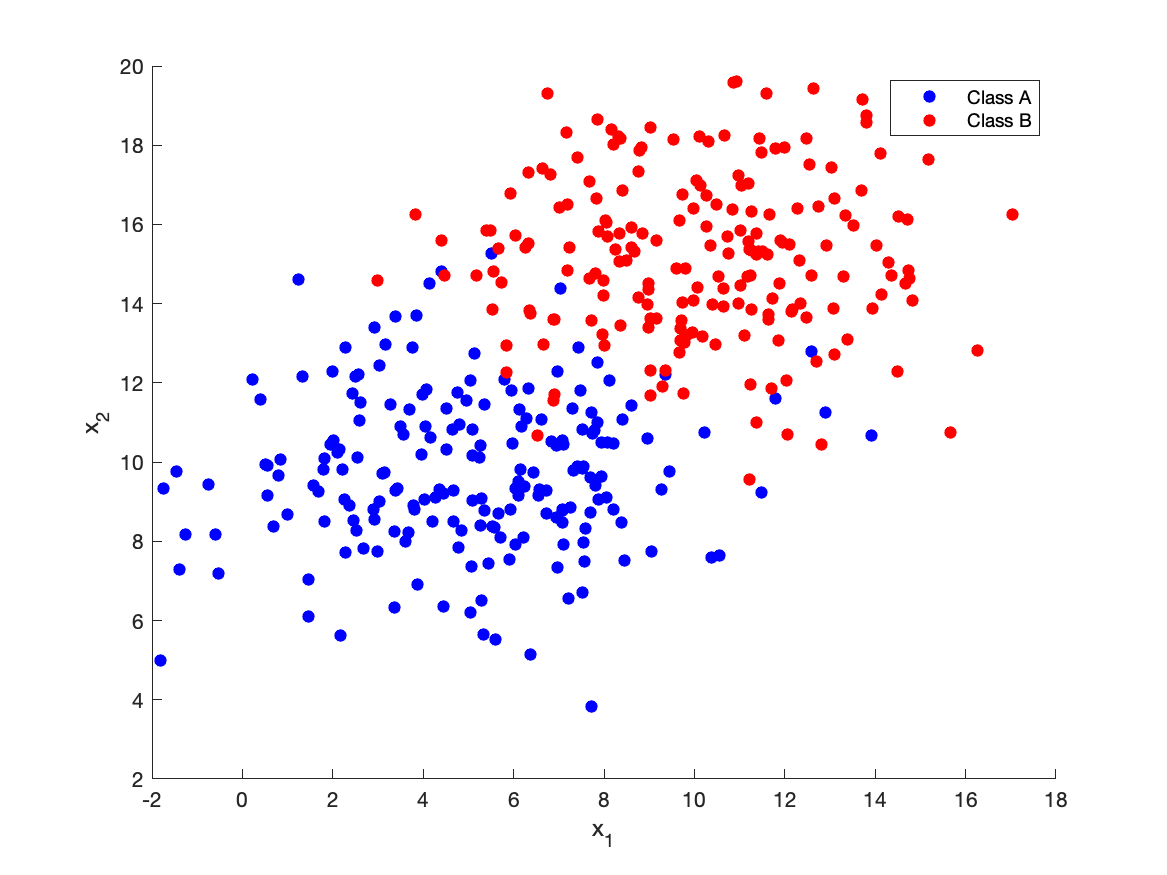
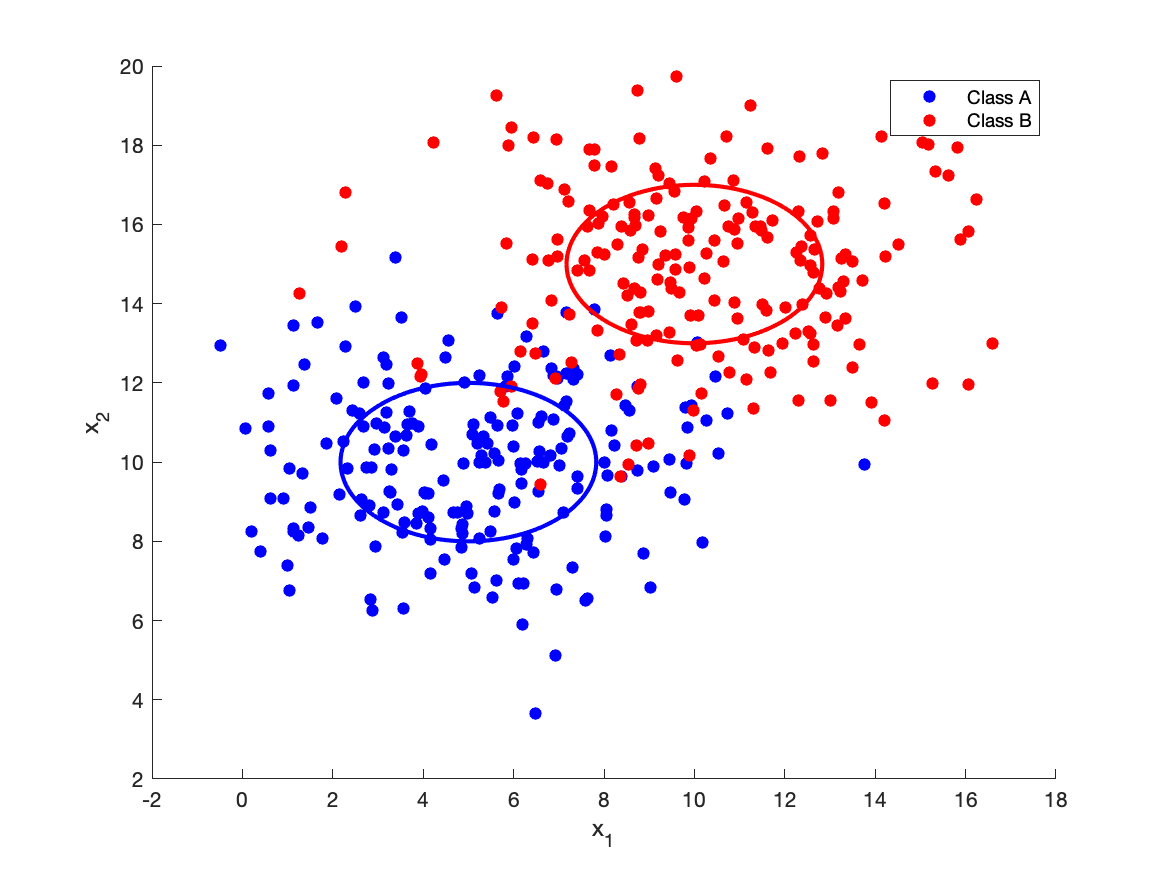
Draw unit standard deviation contour

diff --git a/main.m b/main.m
@@ -1,25 +1,40 @@
 class_a = generateData(200, [5 10]', [8 0; 0 4]);
+[class_a_x, class_a_y] = drawEllipse([5 10]', [8 0; 0 4]);
 class_b = generateData(200, [10, 15]', [8 0; 0 4]);
-
-class_c = generateData(100, [5 10]', [8 4; 4 40]);
-class_d = generateData(200, [15 10]', [8 0; 0 8]);
-class_e = generateData(150, [10 5]', [10 -5; -5 20]);
+[class_b_x, class_b_y] = drawEllipse([10, 15]', [8 0; 0 4]);
 
 figure;
 hold on;
 scatter(class_a(1, :), class_a(2, :), 'b', 'filled');
 scatter(class_b(1, :), class_b(2, :), 'r', 'filled');
+
+plot(class_a_x, class_a_y, 'b-', 'LineWidth', 2);	
+plot(class_b_x, class_b_y, 'r-', 'LineWidth', 2);	
+
 xlabel('x_1');
 ylabel('x_2');
 legend('Class A', 'Class B');
 saveas(gcf, "img/class_a_b.png");
 hold off;
 
+class_c = generateData(100, [5 10]', [8 4; 4 40]);
+[class_c_x, class_c_y] = drawEllipse([5 10]', [8 4; 4 40]);
+class_d = generateData(200, [15 10]', [8 0; 0 8]);
+[class_d_x, class_d_y] = drawEllipse([15 10]', [8 0; 0 8]);
+class_e = generateData(150, [10 5]', [10 -5; -5 20]);
+[class_e_x, class_e_y] = drawEllipse([10 5]', [10 -5; -5 20]);
+
+
 figure;
 hold on; 
 scatter(class_c(1, :), class_c(2, :), 'b', 'filled');
 scatter(class_d(1, :), class_d(2, :), 'r', 'filled');
 scatter(class_e(1, :), class_e(2, :), 'black', 'filled');
+
+plot(class_c_x, class_c_y, 'b-', 'LineWidth', 2);
+plot(class_d_x, class_d_y, 'r-', 'LineWidth', 2);
+plot(class_e_x, class_e_y, 'black-', 'LineWidth', 2);
+
 xlabel('x_1');
 ylabel('x_2');
 legend('Class A', 'Class B', 'Class C');

diff --git a/drawEllipse.m b/drawEllipse.m
@@ -1,0 +1,32 @@
+function [x, y] = drawEllipse(m, covariance)
+
+[V, ~] = eig(covariance);
+V = V./norm(V);
+e = eig(covariance);
+
+
+% Get points of vertices 
+% Get value and index of major axis
+[max_lambda, max_I] = max(e);
+major1 = m + sqrt(max_lambda).*V(:, max_I);
+major2 = m - sqrt(max_lambda).*V(:, max_I);
+% Get value of minor axis
+min_lambda = min(e);
+c = sqrt(max_lambda - min_lambda);
+eccentricity = c/sqrt(max_lambda);
+num_points = 300;
+% Make equations:
+x1 = major1(1);
+x2 = major2(1);
+y1 = major1(2);
+y2 = major2(2);
+a = (1/2) * sqrt((x2 - x1) ^ 2 + (y2 - y1) ^ 2);
+b = a * sqrt(1-eccentricity^2);
+t = linspace(0, 2 * pi, num_points); % Absolute angle parameter
+X = a * cos(t);
+Y = b * sin(t);
+% Compute angles relative to (x1, y1).
+angles = atan2(y2 - y1, x2 - x1);
+x = (x1 + x2) / 2 + X * cos(angles) - Y * sin(angles);
+y = (y1 + y2) / 2 + X * sin(angles) + Y * cos(angles);
+end
